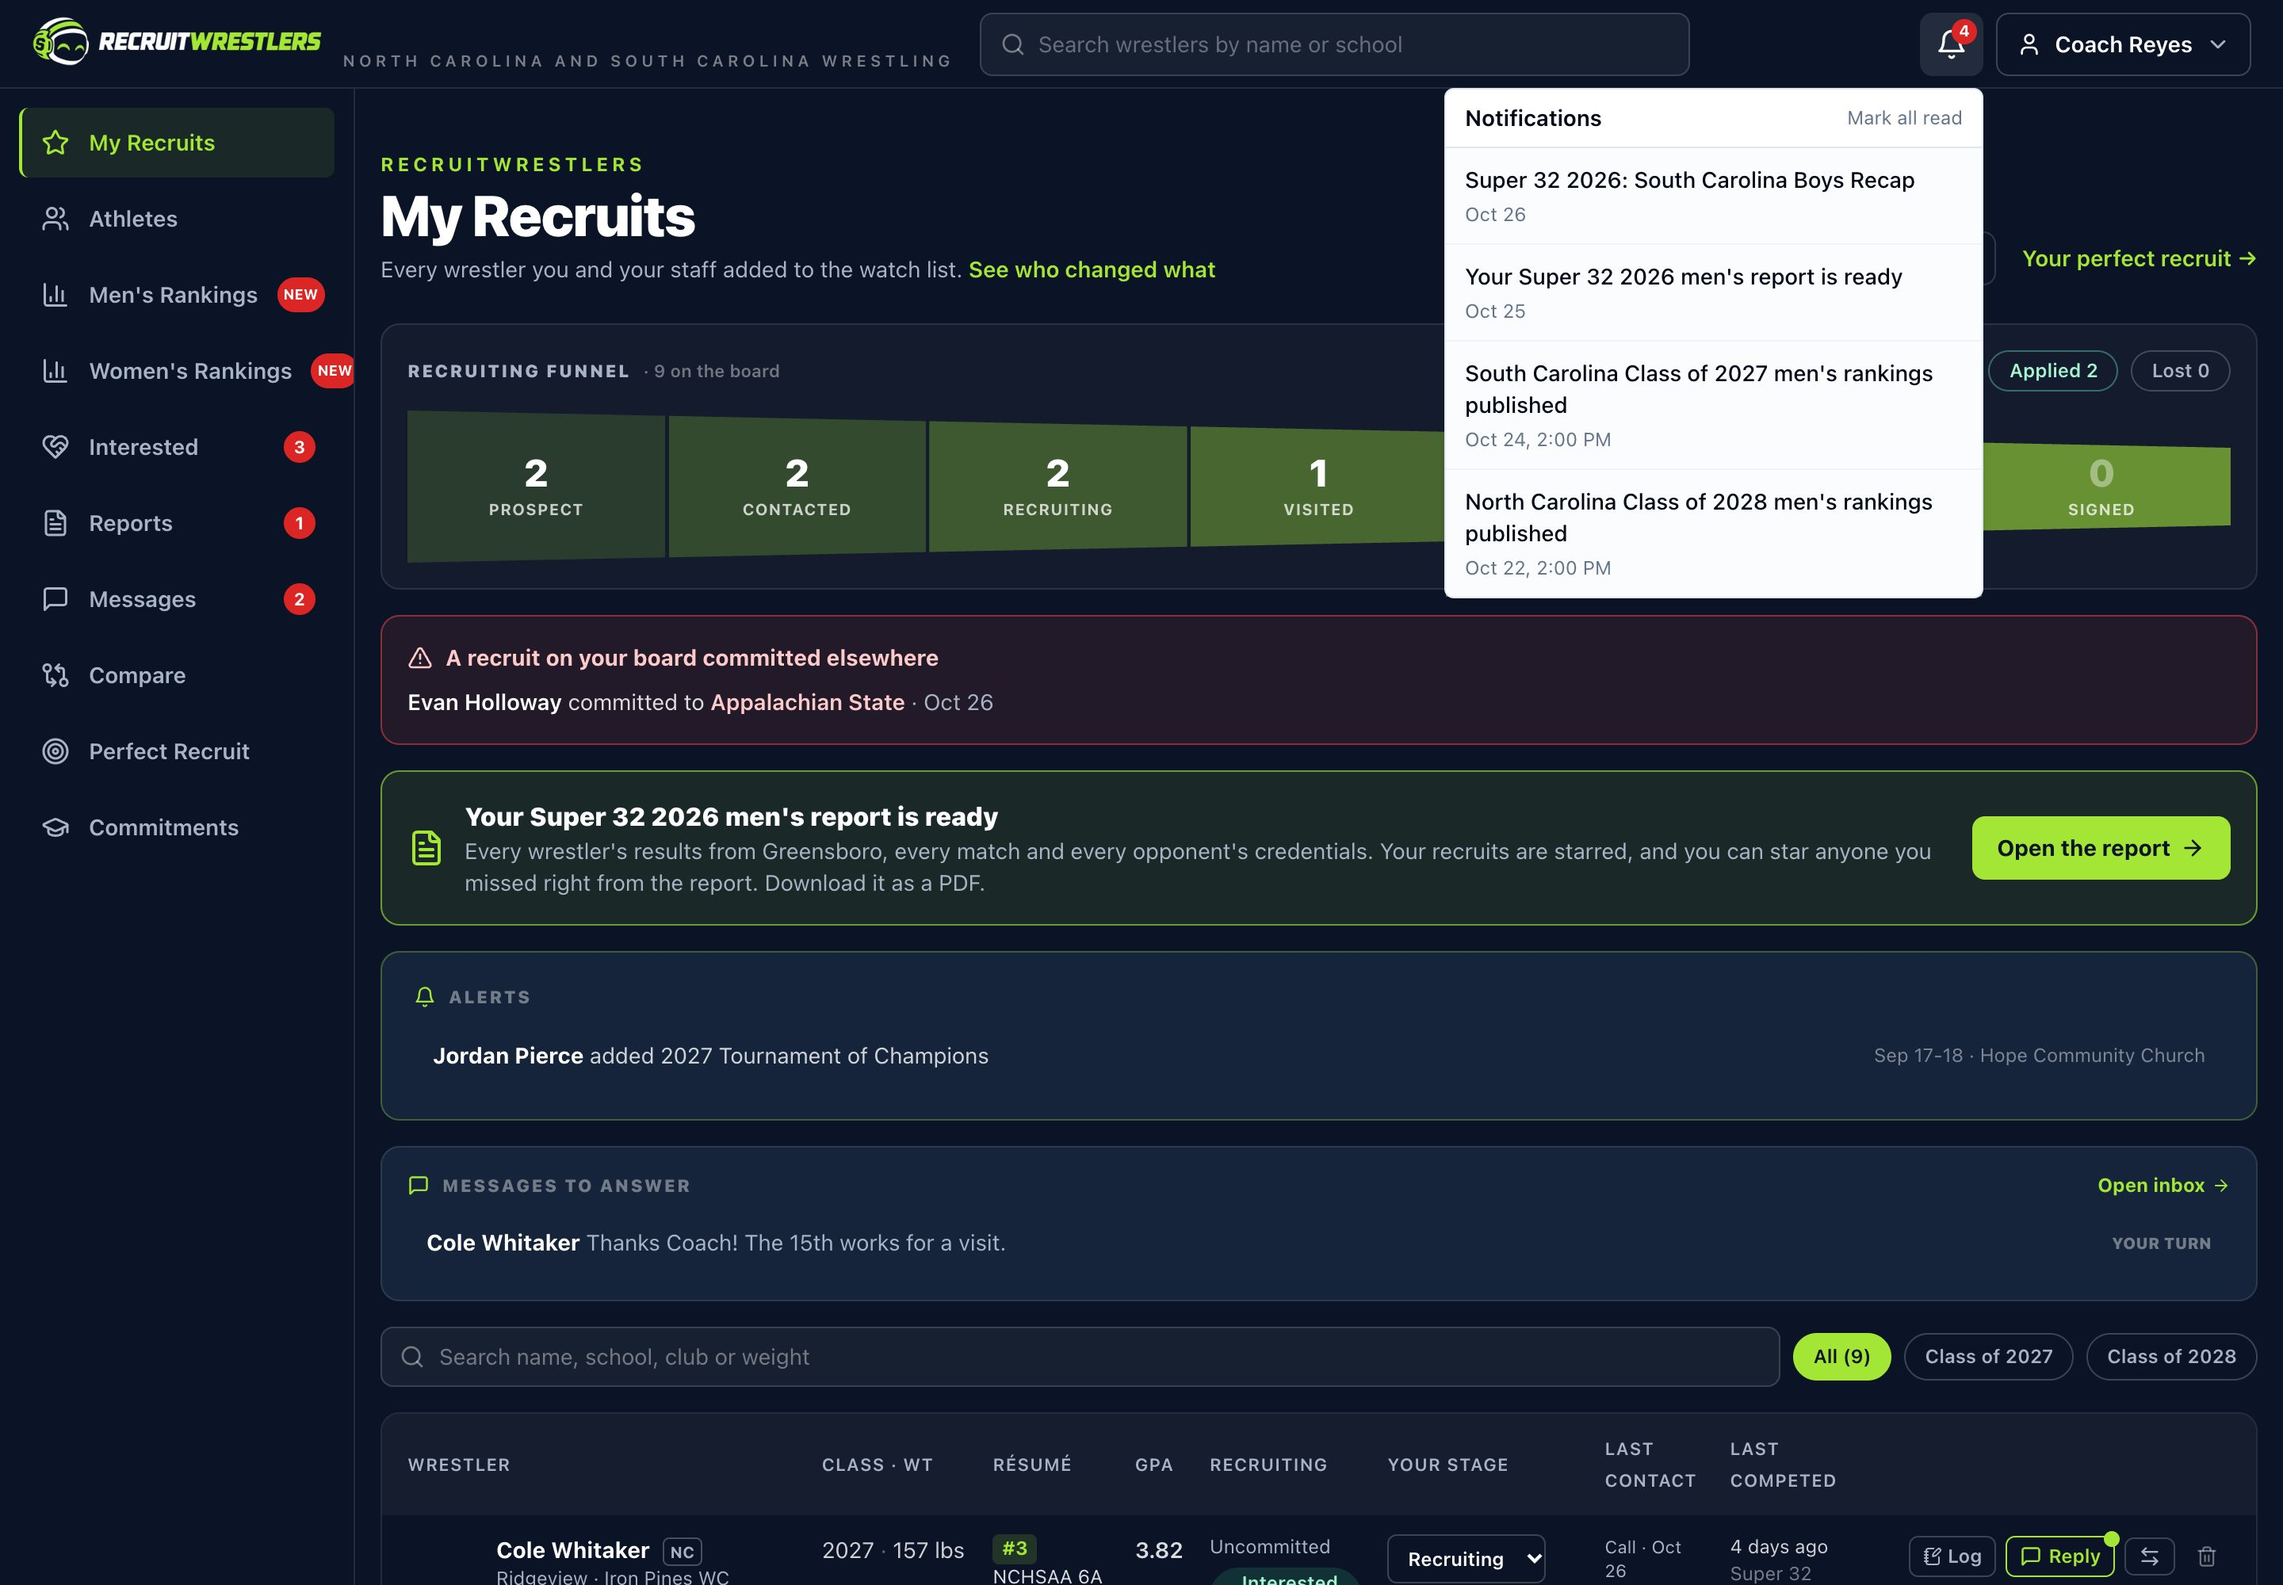
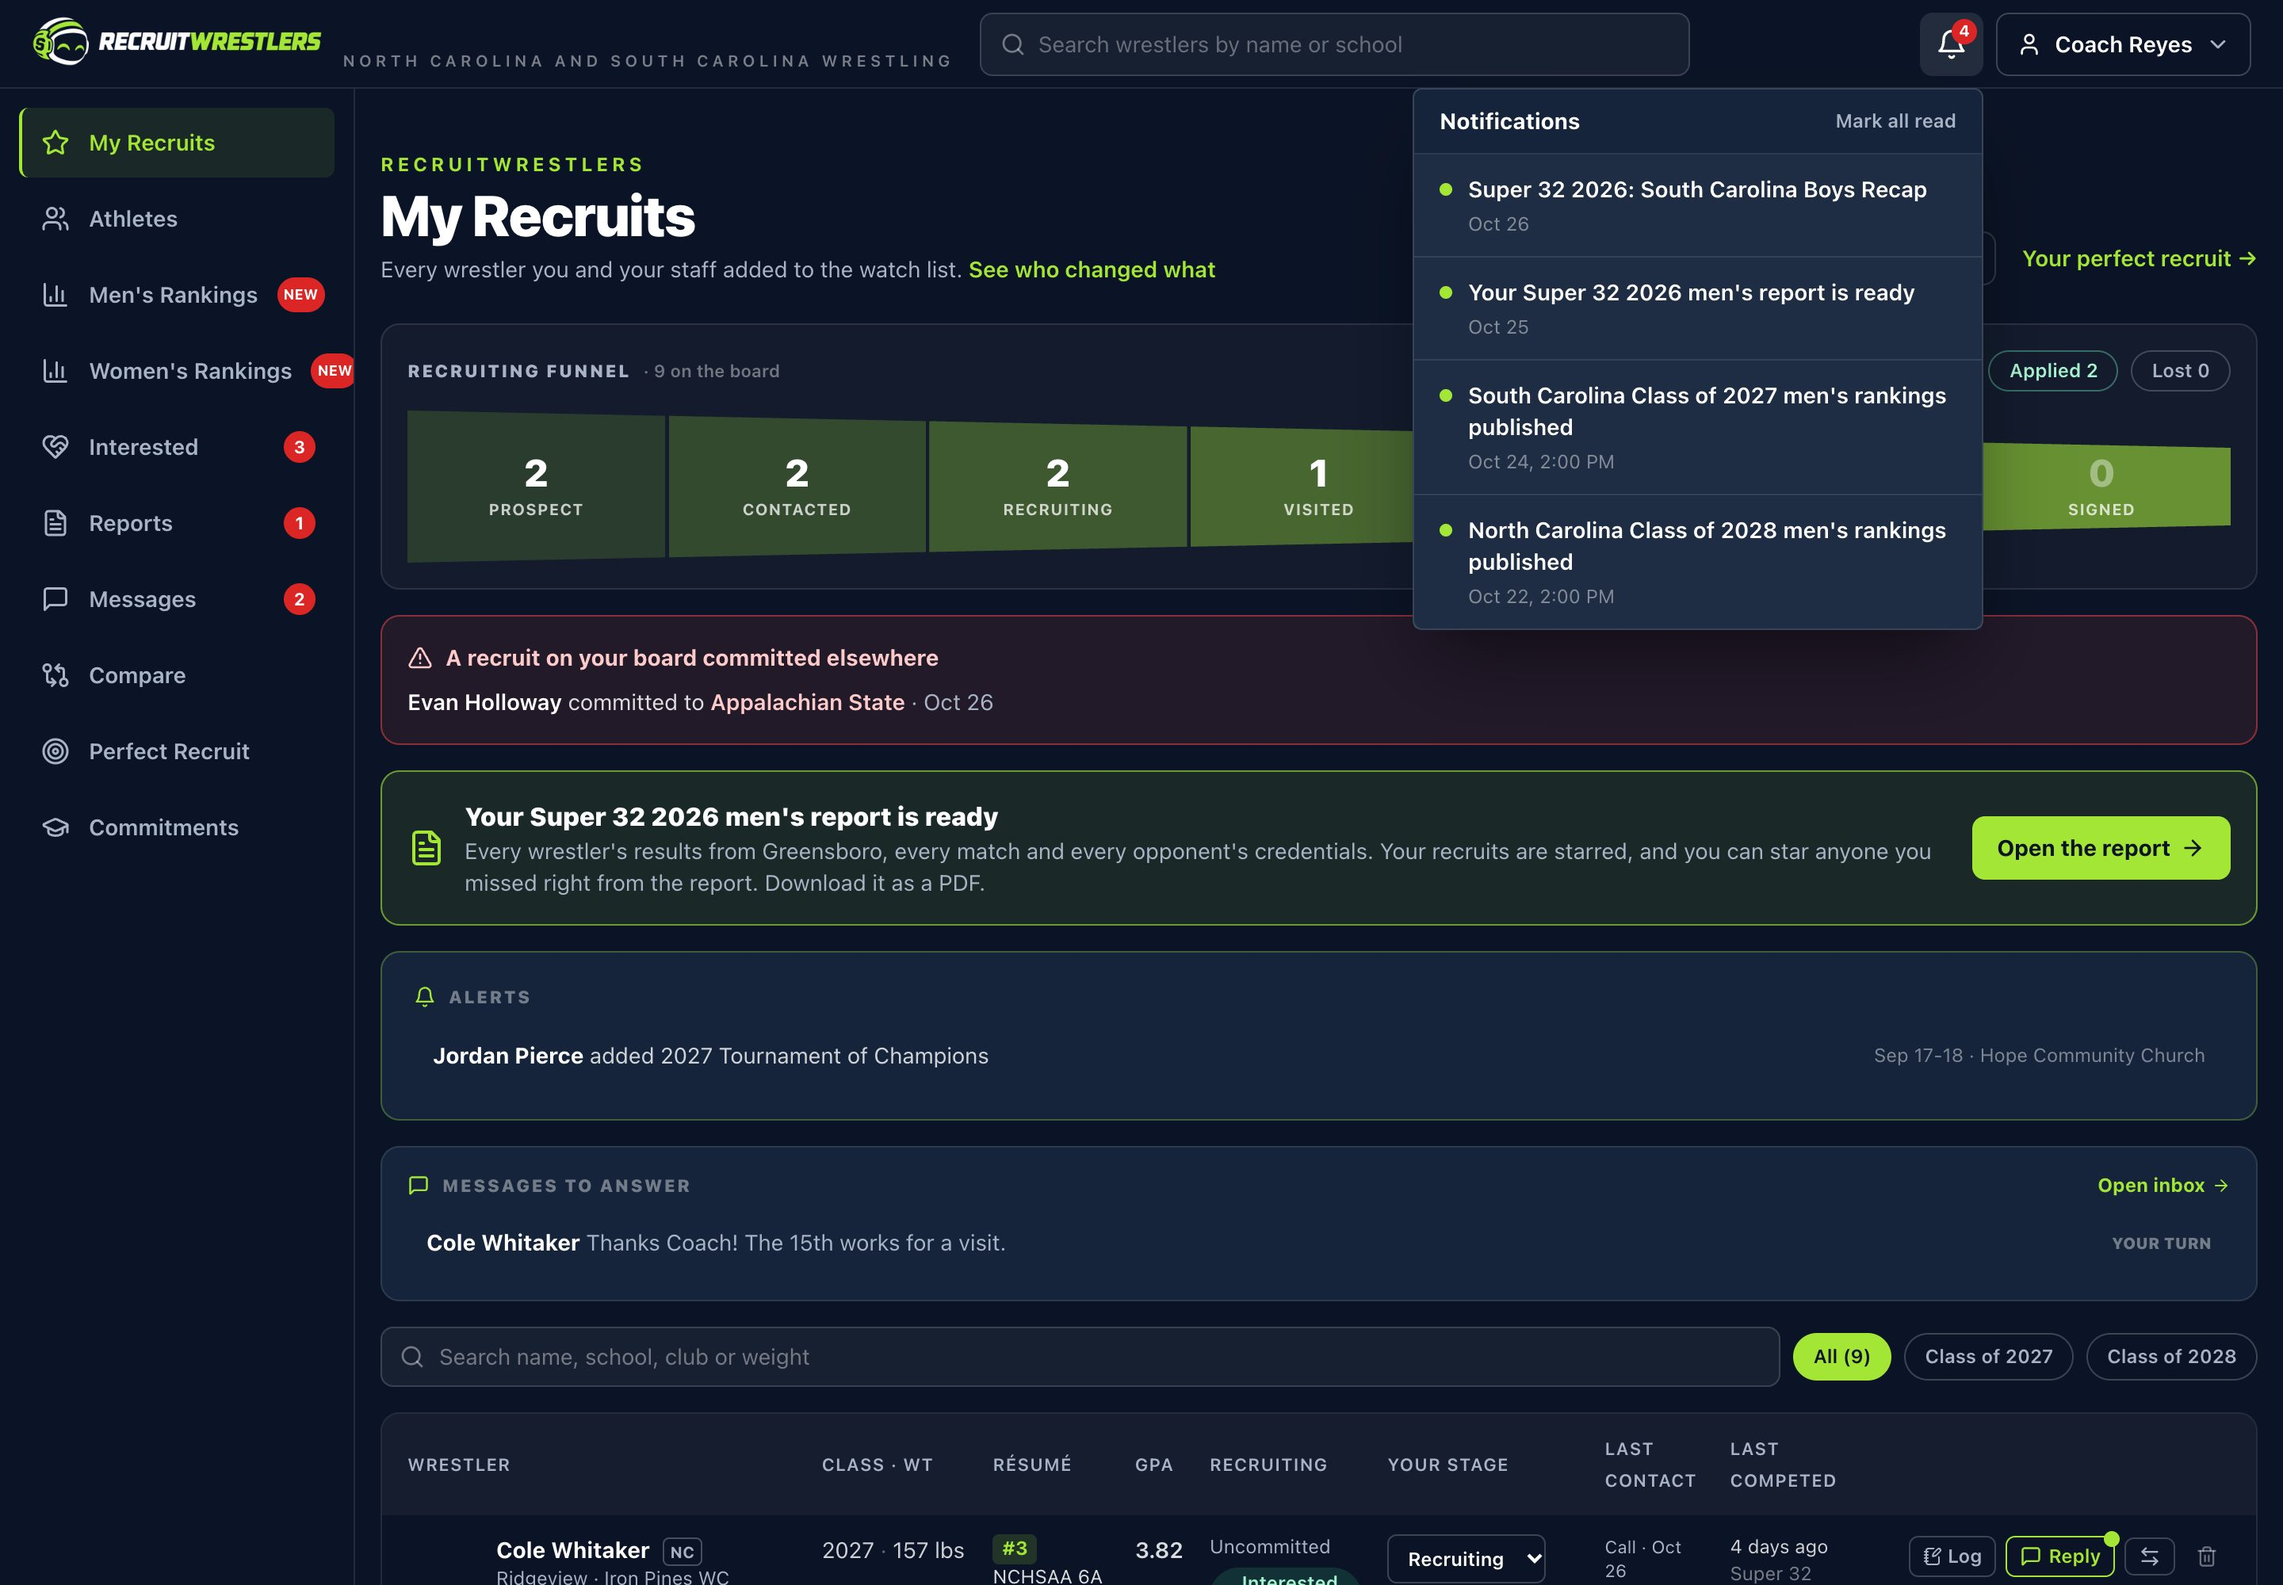
For coaches: tournament reports section; significant win and notable loss defined
New section with the Super 32 report (header and athlete assessments, every
name invented): after every national tournament, every match with each
opponent's seed and credentials, placement, record, significant wins, notable
losses and strength of competition. The scouting report section now says what
a significant win and a notable loss are. Alerts shot re-taken with the navy bell.

Changed region(s): [[0.5938, 0.031, 0.875, 0.403]]

diff --git a/app/for-coaches/page.tsx b/app/for-coaches/page.tsx
@@ -8,7 +8,7 @@ import Link from "next/link"
 import { headers } from "next/headers"
 import { notFound } from "next/navigation"
 import Image from "next/image"
-import { ArrowLeftRight, Bell, FileText, GraduationCap, MessageSquare, Search, Star, Target } from "lucide-react"
+import { ArrowLeftRight, Bell, FileText, GraduationCap, MessageSquare, Search, Star, Target, Trophy } from "lucide-react"
 import { recruitingCoverage } from "@/lib/recruiting/brand"
 import { stagedBrandForHost } from "@/lib/recruiting/national-paths"
 
@@ -38,7 +38,28 @@ const FEATURES = [
 const SHOWCASE = [
   { img: "board", icon: Star, kicker: "My Recruits", title: "Your board and your funnel, shared with your staff", points: ["Stages from Prospect to Signed, applied dates, follow-ups", "Résumé, GPA and cell on every row", "\"Interested in you\" when a wrestler marks your program"] },
   { img: "alerts", icon: Bell, kicker: "Alerts", title: "Know the moment something changes", points: ["A red alert when a recruit commits elsewhere", "Placings, interest and quiet spells on your recruits", "New reports and ranking releases in the bell"] },
-  { img: "report", icon: FileText, kicker: "Scouting reports", title: "Every win and loss, with the opponent's résumé", points: ["Who he beat, how, and what that opponent has done", "Losses shown too, with who they came against", "Academics and contact for verified coaches"] },
+  {
+    img: "report",
+    icon: FileText,
+    kicker: "Scouting reports",
+    title: "Every significant win and notable loss, with the opponent's résumé",
+    points: [
+      "Significant win: a win over a wrestler who is nationally ranked, ranked in his state, a state champion or placer, or a national placer (NHSCA, Super 32, Fargo)",
+      "Notable loss: a loss to a wrestler of that calibre, shown with what he has done",
+      "Strength of competition, star rating, academics and contact for verified coaches",
+    ],
+  },
+  {
+    img: "tournament",
+    icon: Trophy,
+    kicker: "Tournament reports",
+    title: "After every national tournament, how your recruits did",
+    points: [
+      "Every match, every opponent's seed and credentials, starting with Super 32",
+      "Placement, record, significant wins, notable losses and strength of competition",
+      "Your recruits starred, ready within 24 hours of the finals, and downloadable as a PDF",
+    ],
+  },
   { img: "compare", icon: ArrowLeftRight, kicker: "Compare", title: "Two wrestlers, side by side", points: ["Head to head over the last twelve months", "Common opponents and strength of schedule", "The edge marked, line by line"] },
   { img: "athletes", icon: Search, kicker: "Athletes", title: "Every wrestler in the current classes", points: ["Filter by class, last-competed weight, state and commitment", "Results from the brackets, never typed in", "Star anyone onto your board"] },
   { img: "messages", icon: MessageSquare, kicker: "Messages", title: "Write to the wrestler, with his parents on the thread", points: ["Parents see every message", "Division I contact dates shown before you write", "Every message counts as contact on your board"] },
